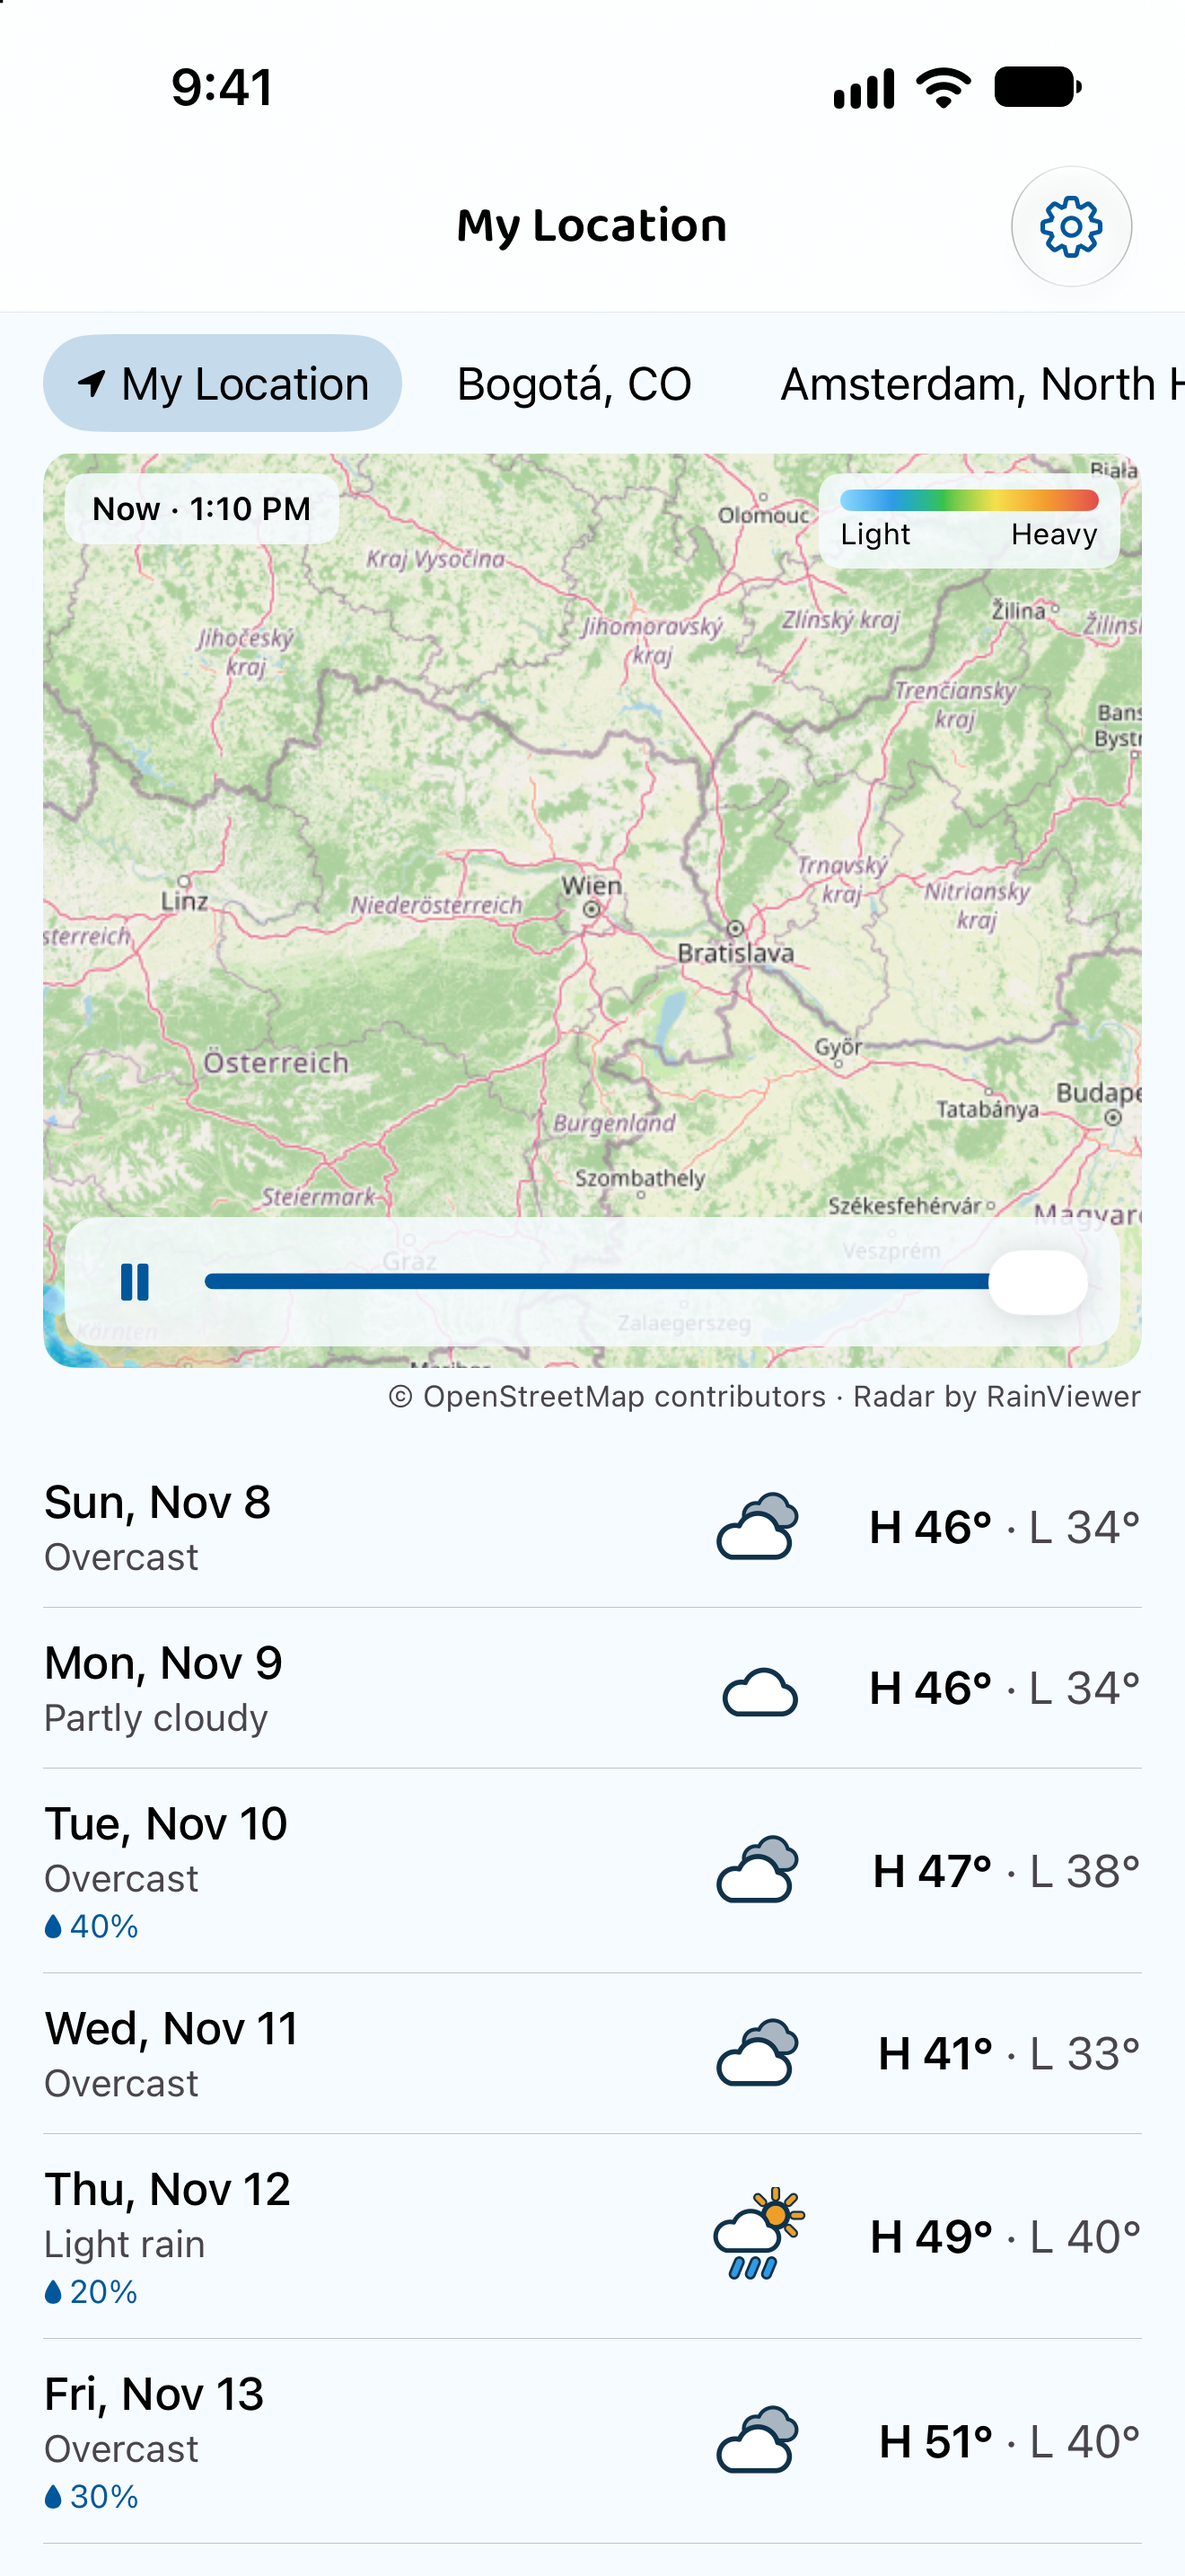
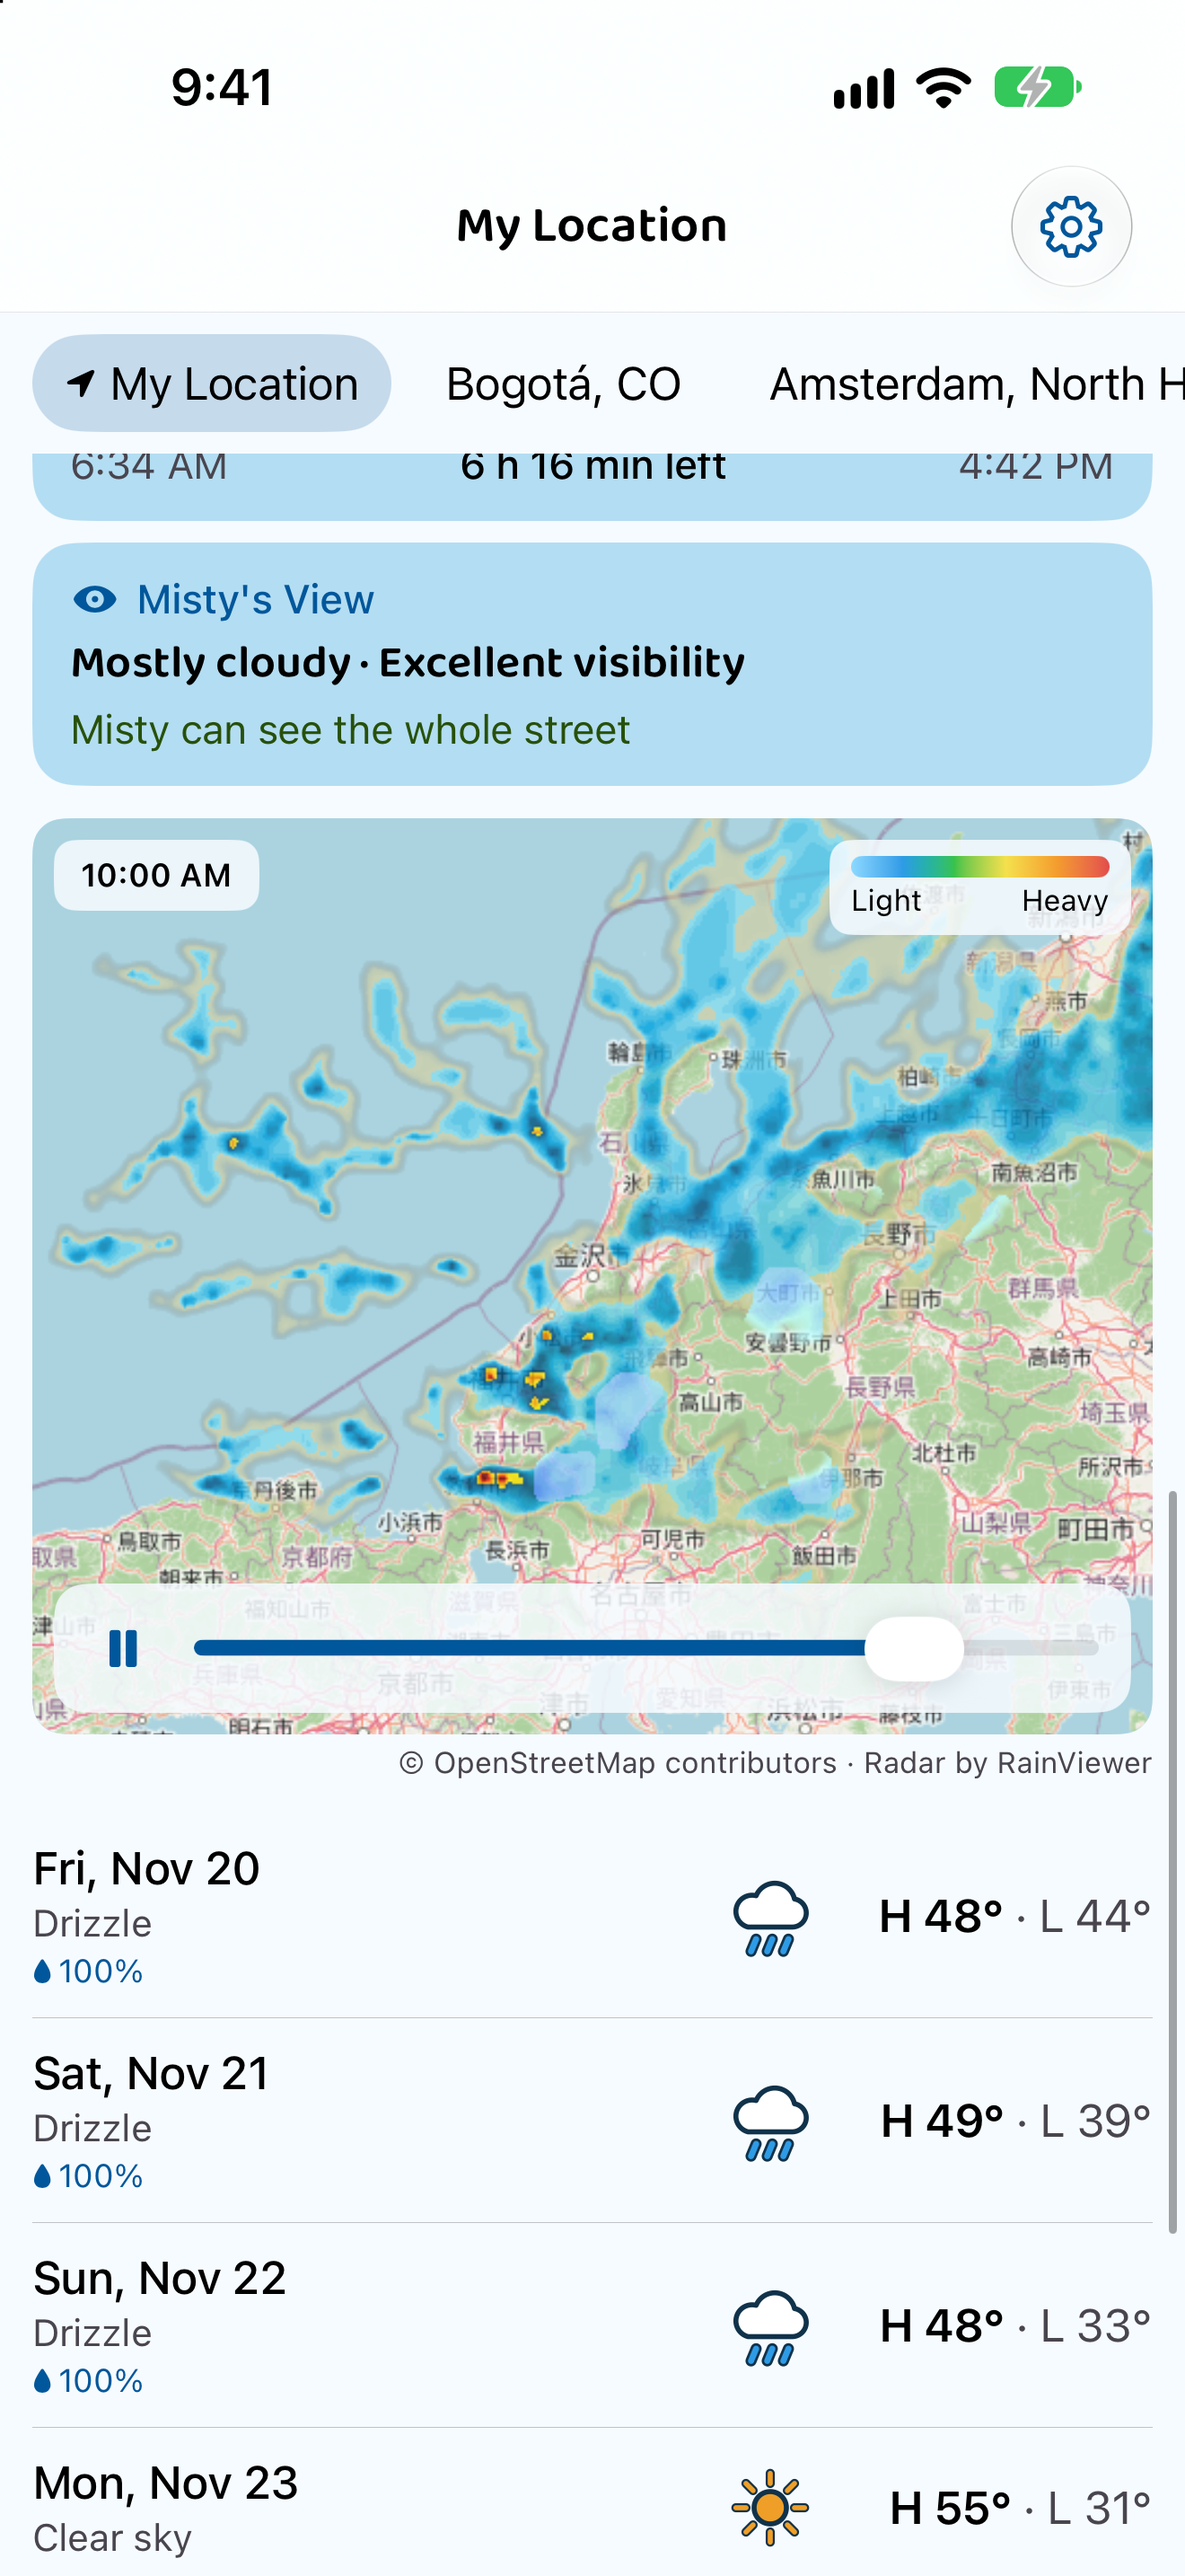
Screenshots: a fresh App Store and README set from 1.0.10
The last set was from 11-07, before the walk card's spells and second
option, "Manage Locations", the Terms link and the radar's dimmed areas.
These are from the 1.0.10 Release build with live weather: Tokyo, Kanazawa,
Alice Springs and Beijing. 07-hot-pavement.png is new, for Paw Check. The
listing draft's description mentions Follow my location.

diff --git a/README.md b/README.md
@@ -15,11 +15,11 @@ Firebase project and the same Remote Config keys, and new features ship on both.
 
 | Pets, walk time & hourly | Today tiles & air quality | Radar & rest of week | Day detail | Settings |
 |---|---|---|---|---|
-| ![Sunny and Misty in the sun on a clear, mild day, with best walk time and the hourly strip](./screenshots/current.png) | ![Today's tiles: Feels Like, the windsock, Fluff Factor, Paw Check, Air Quality across the full width, Daylight and Misty's View](./screenshots/today.png) | ![Animated RainViewer radar and the rest of the week](./screenshots/forecast.png) | ![Hour-by-hour temperature and rain chance for a day](./screenshots/day.png) | ![Settings with I have a dog, locations, notifications and units](./screenshots/settings.png) |
+| ![Sunny and Misty in the sun on a clear, mild day in Tokyo, with "Now is a great time" and the hourly strip](./screenshots/current.png) | ![Today's tiles in Alice Springs: Feels Like, the windsock, Fluff Factor, Paw Check at about 139° and dangerously hot, Air Quality across the full width, Daylight and Misty's View](./screenshots/today.png) | ![Animated RainViewer radar with rain over Japan, and the rest of the week](./screenshots/forecast.png) | ![Hour-by-hour temperature and rain chance for a day](./screenshots/day.png) | ![Settings with I have a dog, locations, notifications and units](./screenshots/settings.png) |
 
 On iPad and in landscape, the pets sit beside today's details and the week splits into two columns.
-Here New Delhi's air is "Unhealthy", so the walk card says "Not a good day for walkies" and
-"Bad air. Potty breaks only.":
+Here Beijing's air is "Very unhealthy", so the walk card says "Not a good day for walkies" and
+"Smoky air. Potty breaks only.":
 
 ![iPad layout with the pets beside today's details, unhealthy air and the bad-air walk card](./screenshots/tablet.png)
 
@@ -731,20 +731,21 @@ Firebase 13 needs Xcode 26.1 (Swift 6.2.1). The project stays on 12.x until CI m
   name, subtitle, description, keywords and the rest.
 - [`screenshots/app-store/`](screenshots/app-store/) holds the 6.9-inch iPhone screenshots
   (1320 × 2868) and the 13-inch iPad ones (2064 × 2752). App Store Connect requires iPad
-  screenshots because the app runs on iPad. Taken on 11-07 with the status bar at 9:41:
+  screenshots because the app runs on iPad. Taken on 11-18 from build 10 (1.0.10) with live weather and the status bar at 9:41:
 
   | File | Shows |
   |---|---|
   | `01-welcome.png` | Onboarding: meet Sunny and Misty |
-  | `02-today.png` | Vienna (My Location) on a clear, mild day: the pets in the sun, "Now is a great time" and the hourly strip |
-  | `03-rain-walk.png` | Kigali in the rain: the umbrella scene, "Tomorrow around 7 AM" and the rain chart, "Rain stopping around 4:00 PM" |
-  | `04-radar-week.png` | The animated radar and the rest of the week |
-  | `05-day-detail.png` | A day's hour-by-hour detail |
+  | `02-today.png` | Tokyo (My Location, named Chiyoda) on a clear, mild day: the pets in the sun, "Now is a great time" and the hourly strip |
+  | `03-rain-walk.png` | Kanazawa in drizzle: the umbrella scene, "Not a good day for walkies" and the rain chart |
+  | `04-radar-week.png` | The animated radar with rain over Japan, and the rest of the week |
+  | `05-day-detail.png` | A day's hour-by-hour detail, with the chance of rain |
   | `06-settings.png` | Settings: I have a dog, locations, notifications, units |
-  | `ipad-01-amsterdam.png` | Amsterdam by day, with air quality on Europe's scale and rain on the radar |
-  | `ipad-02-delhi.png` | New Delhi at night with unhealthy air: "Bad air. Potty breaks only." |
+  | `07-hot-pavement.png` | Alice Springs at 87°: sunglasses, "Too hot underfoot" and Paw check at about 139°, dangerously hot |
+  | `ipad-01-kanazawa.png` | Kanazawa in drizzle by day, with the tiles beside the pets and rain on the radar |
+  | `ipad-02-beijing.png` | Beijing with very unhealthy air: "Smoky air. Potty breaks only." |
 
-  Suggested upload order: 02, 03, 04, 05, 06 (01 optional); iPad 02 then 01.
+  Suggested upload order: 02, 07, 03, 04, 05, 06 (01 optional); iPad 02 then 01.
 - `screenshots/app-store/header-5244x2950.png` is the product page header (Product Page
   Information, Header). It's built from the app icon's artwork. The App Store crops headers hard: an
   iPhone shows about the middle 55% of the width, and every device hides the bottom 40% under the

diff --git a/docs/app-store/listing.md b/docs/app-store/listing.md
@@ -38,6 +38,7 @@ Copy each field into App Store Connect. Character counts are checked against App
 > - Animated precipitation radar
 > - Save as many cities as you like, or use your current location, each shown in its own time zone
 > - A morning briefing at 8:30 and a nudge at the best walk time, both optional
+> - Follow my location: the briefing and walk nudges follow you when you travel, even when the app is closed
 > - Celsius or Fahrenheit, or follow your device setting
 > - Designed for iPhone and iPad, in portrait and landscape
 >
@@ -59,9 +60,9 @@ Copy each field into App Store Connect. Character counts are checked against App
 | Privacy policy URL | https://sunnyandmisty.com/privacy |
 
 **Screenshots** (both sets are required, because the app runs on iPhone and iPad):
-- 6.3-inch iPhone (1206 × 2622), now the required size: `screenshots/app-store/6.3-inch/`, order 02, 03, 04, 05, 06. These are the 6.9-inch shots scaled down (`sips -z 2622 1206`)
+- 6.3-inch iPhone (1206 × 2622), now the required size: `screenshots/app-store/6.3-inch/`, order 02, 07, 03, 04, 05, 06. These are the 6.9-inch shots scaled down (`sips -z 2622 1206`)
 - 6.9-inch iPhone (1320 × 2868), optional but sharper on the largest phones: `screenshots/app-store/`, same order (01 optional); the README's App Store section lists what each shows
-- 13-inch iPad (2064 × 2752): `screenshots/app-store/ipad-02-delhi.png`, then `ipad-01-amsterdam.png`
+- 13-inch iPad (2064 × 2752): `screenshots/app-store/ipad-02-beijing.png`, then `ipad-01-kanazawa.png`
 
 ## App Review information
 
